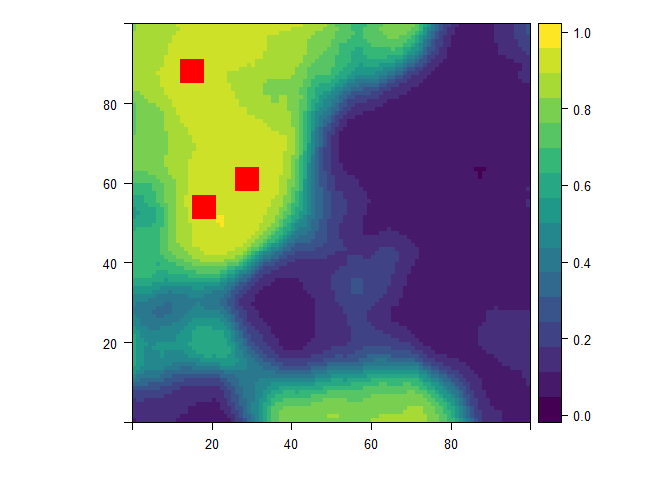
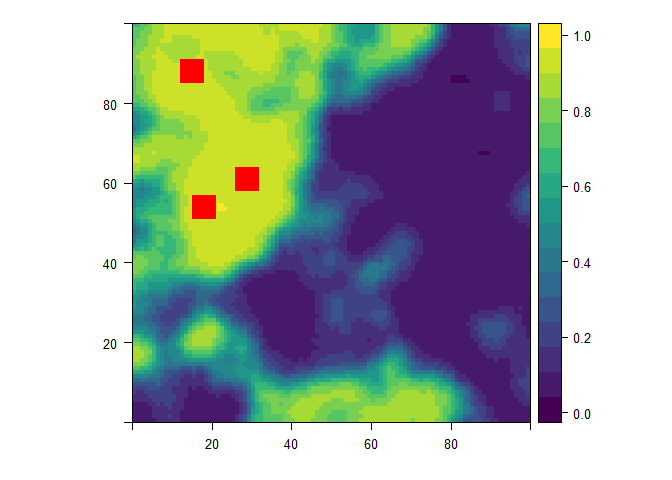
README updates

diff --git a/README.md b/README.md
@@ -1,7 +1,7 @@
 
 [![DOI](https://zenodo.org/badge/DOI/10.5281/zenodo.888409.svg)](https://doi.org/10.5281/zenodo.888409) [![Build Status](https://travis-ci.org/mrecos/klrfome.svg?branch=master)](https://travis-ci.org/mrecos/klrfome)
 
-![](https://github.com/mrecos/klrfome/blob/master/klrfome_hex.png?raw=true)
+![](https://github.com/mrecos/klrfome/blob/master/KLR_fome_hex_med.png?raw=true)
 
 PRE-RELEASE
 ===========
@@ -90,30 +90,13 @@ params <- list(train_data = train_data,
 
 ``` r
 library("NLMR")
-#> Warning: package 'NLMR' was built under R version 3.4.4
 library("rasterVis")
-#> Loading required package: raster
-#> Loading required package: sp
-#> Warning: package 'sp' was built under R version 3.4.4
-#> 
-#> Attaching package: 'raster'
-#> The following object is masked from 'package:ggplot2':
-#> 
-#>     calc
-#> The following object is masked from 'package:dplyr':
-#> 
-#>     select
-#> Loading required package: lattice
-#> Loading required package: latticeExtra
-#> Loading required package: RColorBrewer
-#> 
-#> Attaching package: 'latticeExtra'
-#> The following object is masked from 'package:ggplot2':
-#> 
-#>     layer
+```
+
+``` r
 cols = 100
 rows = 100
-ngb = 3
+ngb = 7
 
 ### Create simulated environmental rasters
 s_var1r <- nlm_gaussianfield(cols,rows, autocorr_range = 20)
@@ -141,7 +124,7 @@ plot(pred_var_stack)
 ### scale rasters to training data
 pred_var_stack_scaled <- scale_prediction_rasters(pred_var_stack, params, verbose = 0)
 ### Predict raster (single chunk) 
-pred_rast <- KLR_raster_predict(pred_var_stack_scaled, ngb =15, params, progress = FALSE)
+pred_rast <- KLR_raster_predict(pred_var_stack_scaled, ngb = ngb, params, progress = FALSE)
 ### plot with simulated sites
 rasterVis::levelplot(pred_rast, margin = FALSE, ,par.settings=viridisTheme()) +
   layer(sp.points(sp.points(SpatialPoints(coords), pch=15, cex = 3, col = "red")), columns=1)
